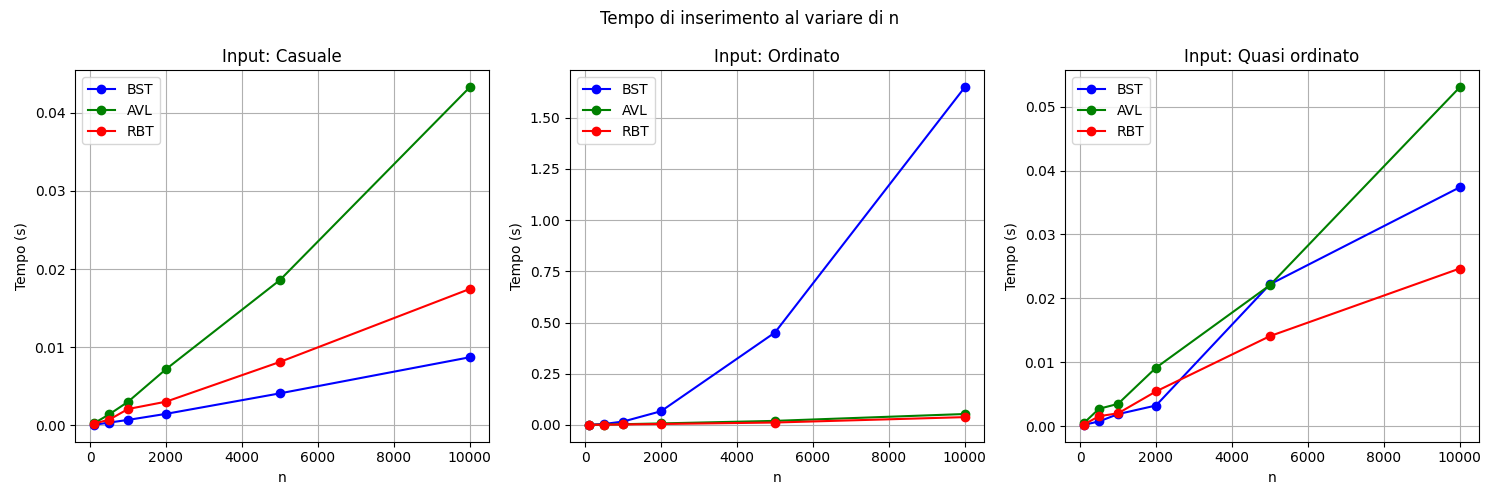
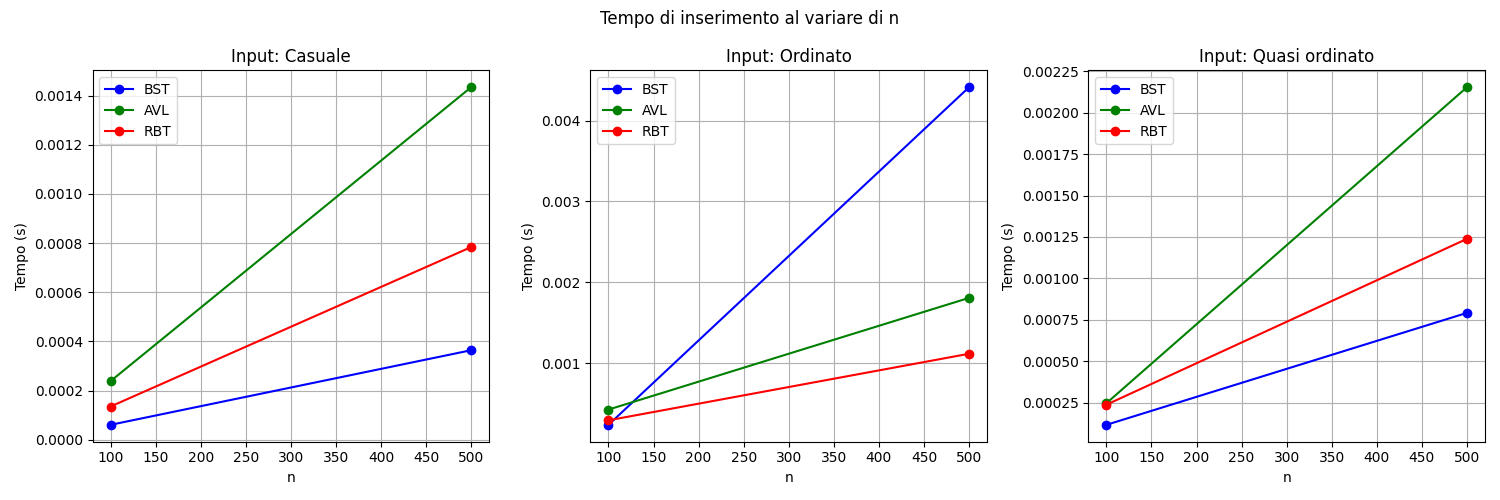
feat: Aumentato il numero di ripetizioni per le misurazioni di inserimento e ricerca negli alberi

diff --git a/main.py b/main.py
@@ -1,7 +1,7 @@
+import time
 import timeit
 from typing import cast
 import numpy as np
-
 from plots import generate_all_plots
 from trees.avl_tree import AVLTree
 from trees.binary_search_tree import BinarySearchTree
@@ -46,7 +46,7 @@ def generated_almost_sorted(n: int) -> list[int]:
     return keys
 
 
-def measure_insert(TreeClass, keys: list[int], number: int = 5) -> float:
+def measure_insert(TreeClass, keys: list[int], number: int = 50) -> float:
     """
     Misura il tempo di inserimento di una lista di chiavi nell'albero
     Args:
@@ -64,22 +64,27 @@ def measure_insert(TreeClass, keys: list[int], number: int = 5) -> float:
     return timeit.timeit(insert_all, number=number) / number
 
 
-def measure_search(tree, keys: list[int], number: int = 5) -> float:
+def measure_search(tree, keys: list[int], number: int = 50) -> float:
     """
-    Misura il tempo medio di ricerca di una lista di chiavi nell'albero
+    Misura il tempo di ricerca usando deepcopy per garantire
+    che l'albero sia sempre lo stesso in ogni ripetizione.
     Args:
         number: numero di ripetizioni
         tree: l'albero in cui cercare le chiavi
         keys: la lista di chiavi da cercare
     Returns: tempo medio di ricerca per chiave in secondi
     """
-
-    def search_all():
+    times = []
+    for _ in range(number):
+        start_time = time.perf_counter()
         for key in keys:
             tree.search(key)
+        end_time = time.perf_counter()
 
-    total_time = timeit.timeit(search_all, number=number) / number
-    return total_time / len(keys)
+        times.append(end_time - start_time)
+
+    return float(np.mean(times))
+
 
 
 def run_experiments(sizes: list[int]) -> dict:
@@ -138,6 +143,6 @@ def run_experiments(sizes: list[int]) -> dict:
 
 
 if __name__ == '__main__':
-    sizes = [100, 500, 1000, 2000, 5000, 10000]
+    sizes = [100, 500]
     results = run_experiments(sizes)
     generate_all_plots(results)

diff --git a/plots.py b/plots.py
@@ -1,7 +1,7 @@
 import os
 import matplotlib.pyplot as plt
 
-SIZES = [100, 500, 1000, 2000, 5000, 10000]
+SIZES = [100, 500]
 SCENARIOS = ["random", "sorted", "almost_sorted"]
 SCENARIO_LABELS = {
     "random": "Casuale",
